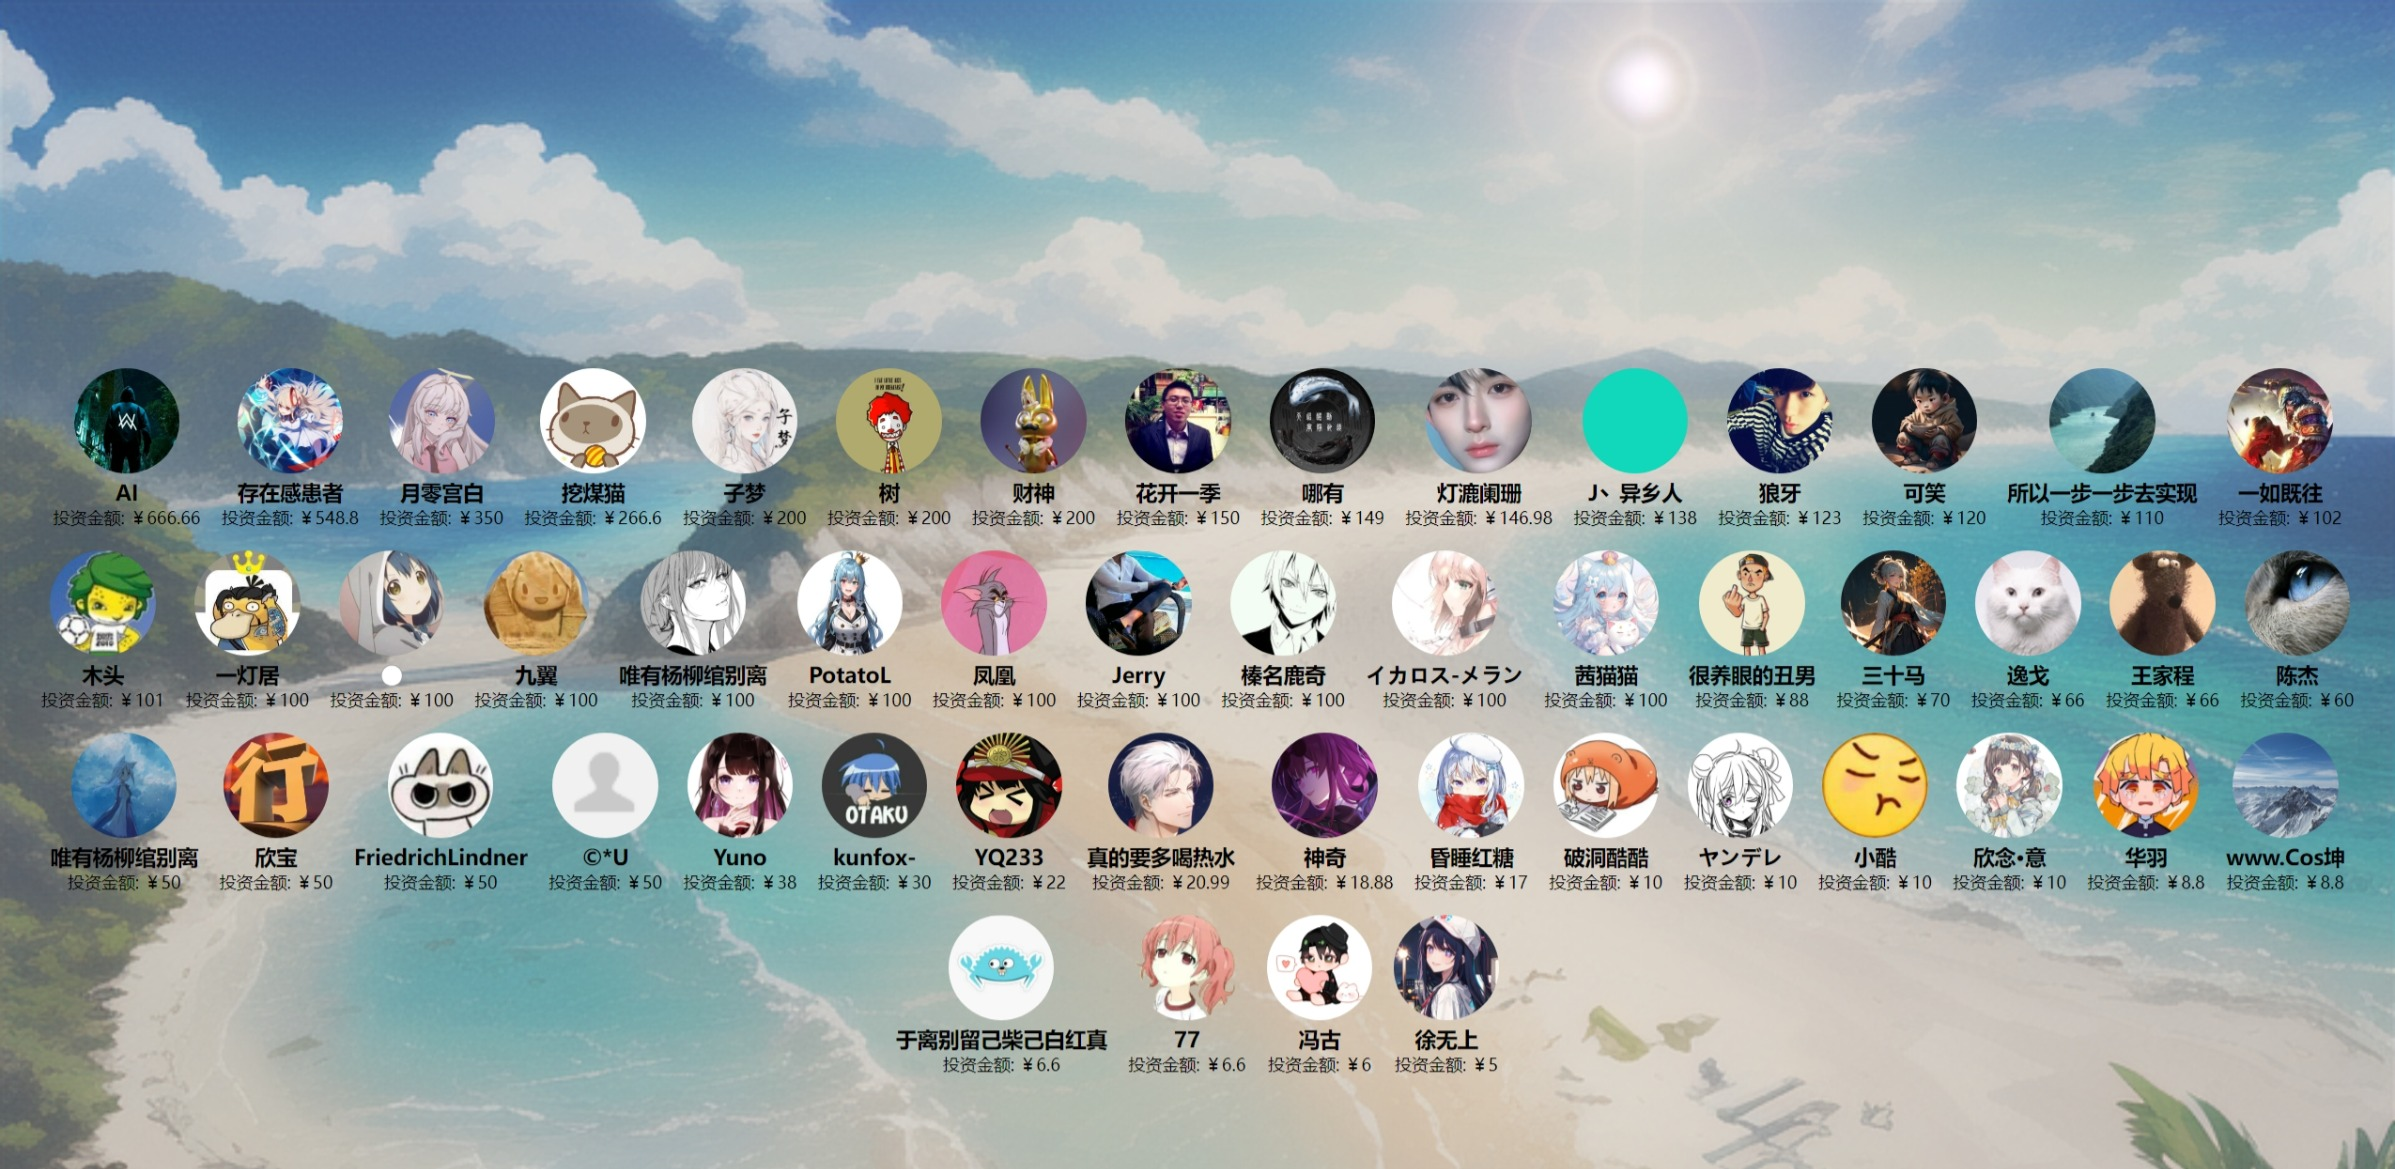
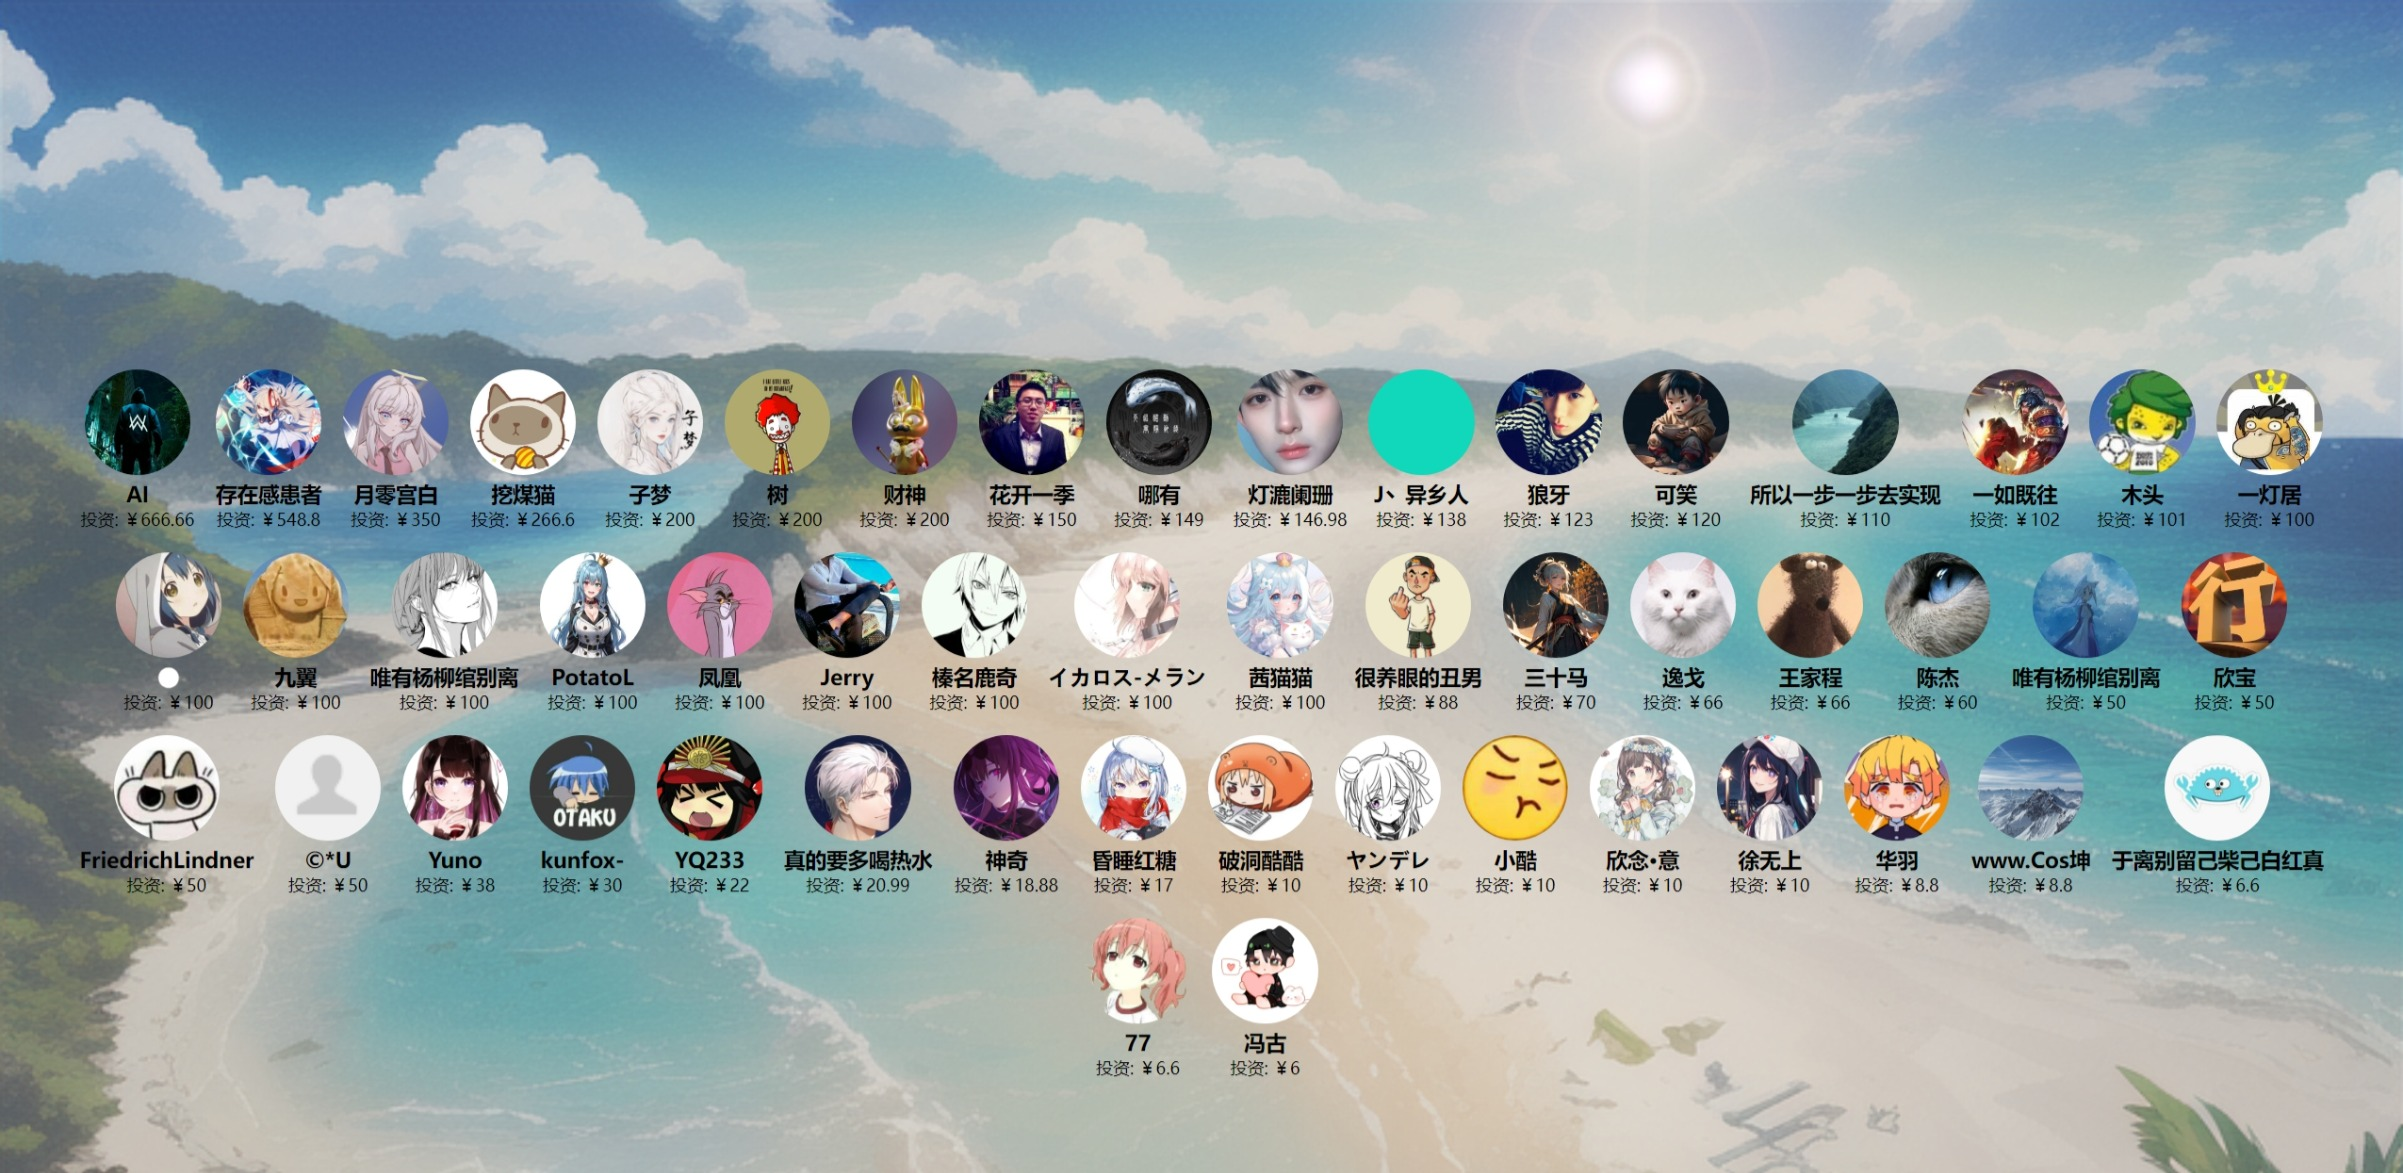
更新投资人

Changed region(s): [[0.0, 0.308, 0.9887, 0.9239]]

diff --git a/docs/投资人/index.html b/docs/投资人/index.html
@@ -277,6 +277,11 @@
             amount: "￥10"
         },
         {
+            name: "徐无上",
+            avatar: "https://images.cnblogs.com/cnblogs_com/ikaros-521/2328032/o_231119104314_QQ%E5%9B%BE%E7%89%8720231119184129.jpg",
+            amount: "￥10"
+        },
+        {
             name: "华羽",
             avatar: "https://images.cnblogs.com/cnblogs_com/ikaros-521/2328032/o_230722163359_QQ%E5%9B%BE%E7%89%8720230722234807.jpg",
             amount: "￥8.8"
@@ -300,11 +305,6 @@
             name: "冯古",
             avatar: "https://images.cnblogs.com/cnblogs_com/ikaros-521/2328032/o_230719074436_%E5%86%AF%E5%8F%A4.jpg",
             amount: "￥6"
-        },
-        {
-            name: "徐无上",
-            avatar: "https://images.cnblogs.com/cnblogs_com/ikaros-521/2328032/o_231119104314_QQ%E5%9B%BE%E7%89%8720231119184129.jpg",
-            amount: "￥5"
         }
     ];
 
@@ -317,7 +317,7 @@
             <div>
                 <img src="${investor.avatar}" class="investor-avatar">
                 <p class="investor-name">${investor.name}</p>
-                <p class="investor-amount">投资金额: ${investor.amount}</p>
+                <p class="investor-amount">投资: ${investor.amount}</p>
             </div>
         `;
         // 添加到容器中
